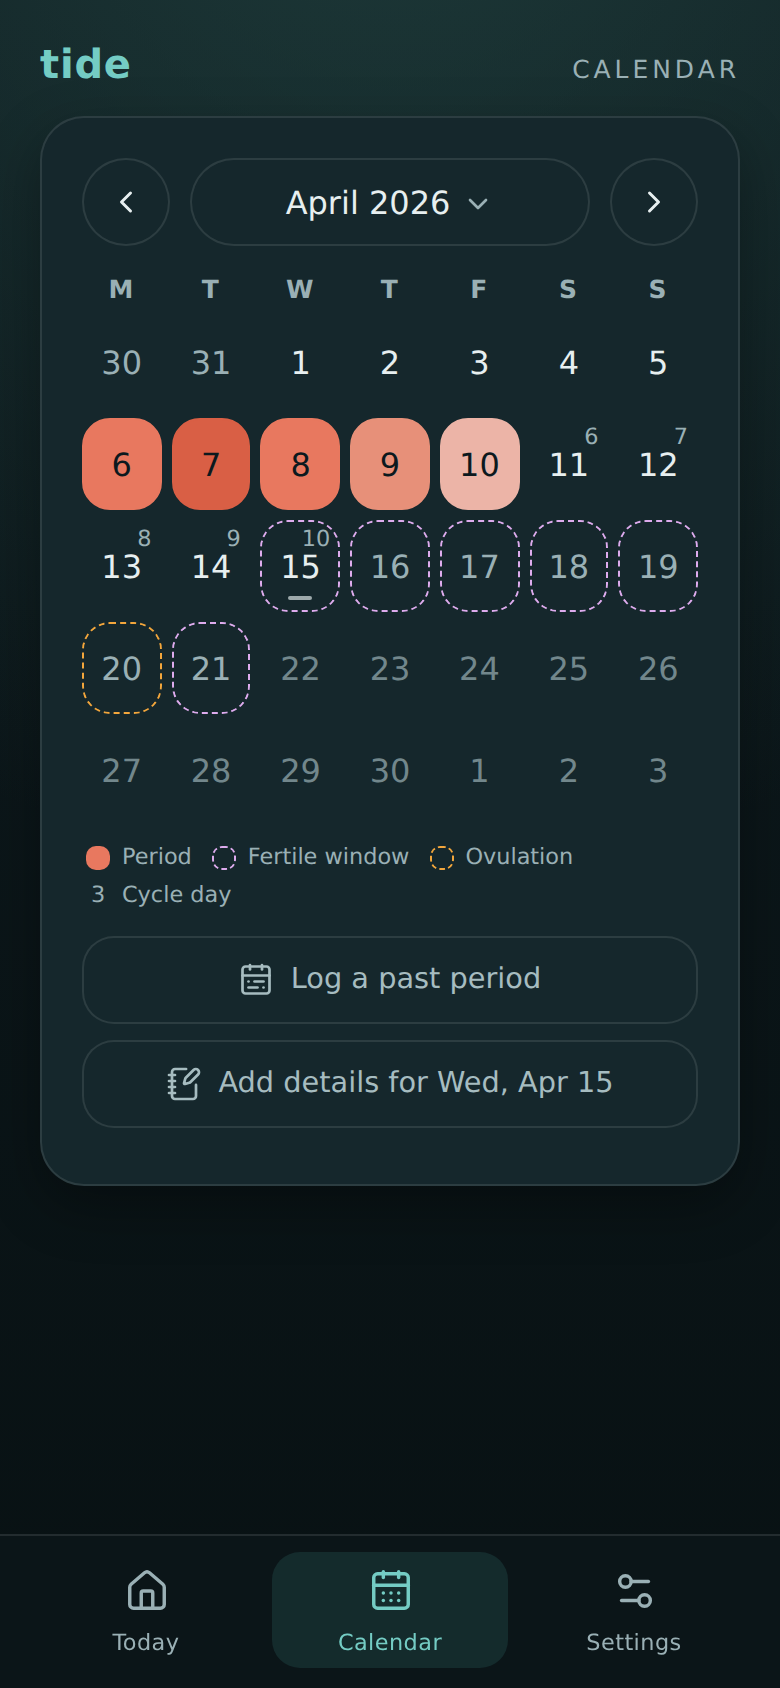
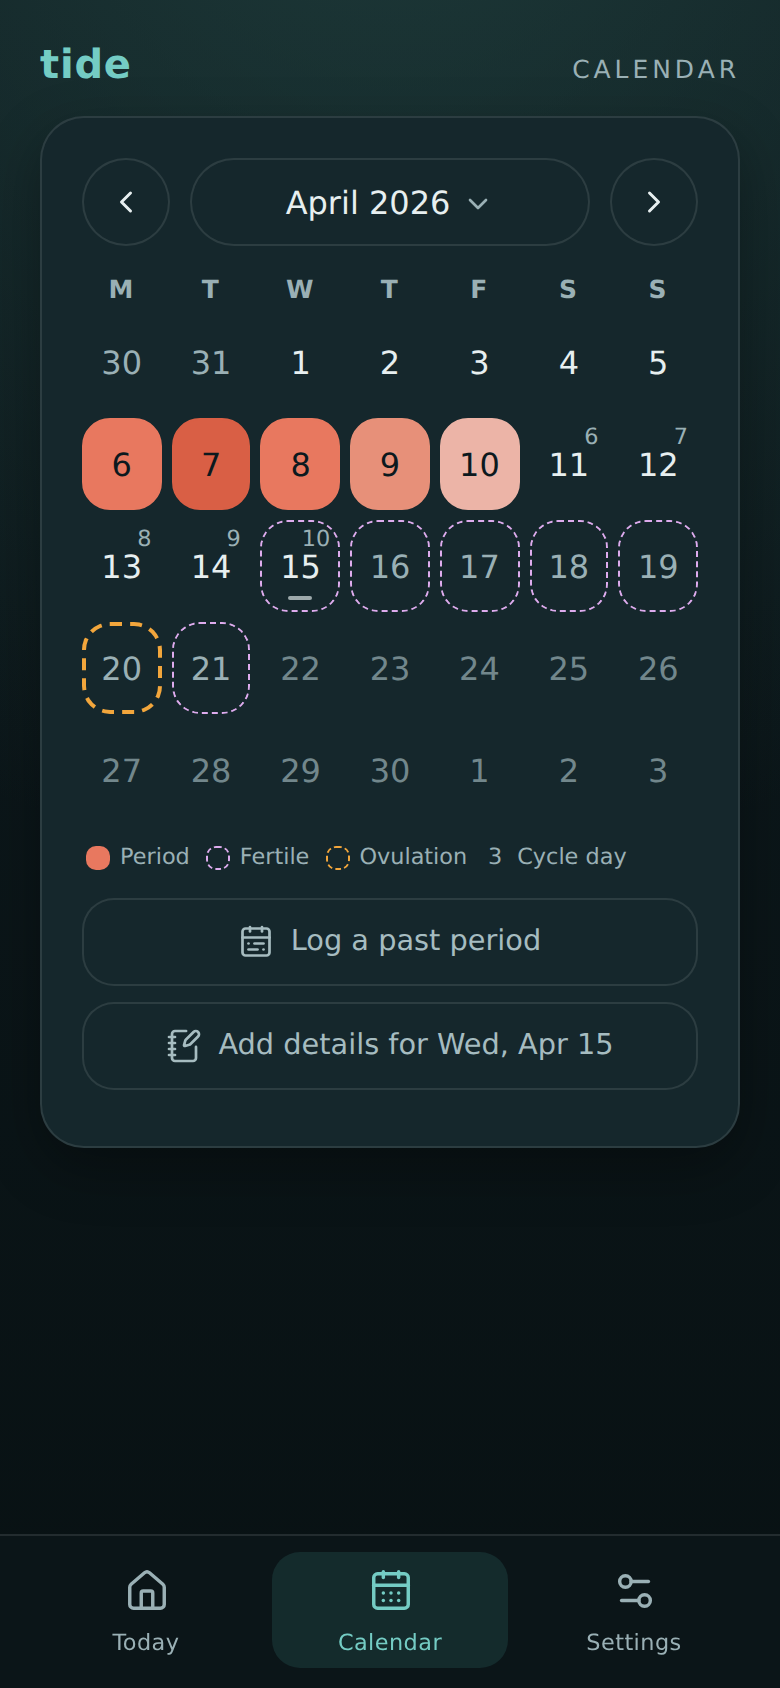
feat(calendar): gold ovulation and a one-line legend
- Ovulation is gold (#b07d00 light) with a 2.5 px dash and an amber
  wash on the calendar, so it no longer looks like the coral expected
  period; dark keeps its amber
- Legends say "Fertile" instead of "Fertile window" (legend.fertile),
  so the calendar legend fits one line at 390 px in all five languages;
  the calendar export keeps the full name
- Tighter legend gaps; README calendar screenshots recaptured

diff --git a/src/styles/tokens.css b/src/styles/tokens.css
@@ -45,13 +45,14 @@
     --cycle-idle: rgba(84, 123, 121, 0.4);
     /* Estimates are dashed outlines, never fills. Lilac and amber are too pale
        for a line on the light ground, so their outlines take deeper shades:
-       each clears 3.9:1 on the white card and 3.3:1 on the darkest ground. A
-       yellow that dark turns brown, so the fertile window is violet. */
+       each clears 3.6:1 on the white card and 3.1:1 on the darkest ground. A
+       yellow that dark turns brown, so the fertile window is violet; ovulation
+       is gold, apart from the coral period, with a thicker dash and a yellow wash. */
     --estimate-period: var(--bleed-strong);
     --estimate-fertile: #b454d4;
     /* How much of an estimate's colour washes its calendar day. */
     --estimate-tint: 10%;
-    --estimate-ovulation: #d45d00;
+    --estimate-ovulation: #b07d00;
     /* Text on the warm cycle fills — they stay light in both themes, so this
        stays near-black in both themes (not overridden in the dark block) to
        clear AA on coral, sand, and amber. */

diff --git a/src/styles/screens.css b/src/styles/screens.css
@@ -411,14 +411,14 @@
   .calendar-legend {
     display: flex;
     flex-wrap: wrap;
-    gap: 6px 10px;
+    gap: 4px 8px;
     padding-inline: 2px;
   }
 
   .calendar-legend__item {
     display: inline-flex;
     align-items: center;
-    gap: 6px;
+    gap: 5px;
     color: var(--ink-muted);
     font-size: var(--text-xs);
   }
@@ -459,6 +459,7 @@
 
   .calendar-legend__swatch--ovulation {
     --estimate: var(--estimate-ovulation);
+    background: color-mix(in srgb, var(--cycle-ovulation) calc(var(--estimate-tint) * 2.2), transparent);
   }
 
   .calendar-grid__weekday-narrow {

diff --git a/src/features/calendar/CalendarScreen.tsx b/src/features/calendar/CalendarScreen.tsx
@@ -252,7 +252,7 @@ const LEGEND_ITEMS = [
   // The same words as the Today dial's legend: one name per marker.
   { key: "logged", labelKey: "legend.period" },
   { key: "predicted", labelKey: "legend.expected" },
-  { key: "fertile", labelKey: "legend.fertileWindow" },
+  { key: "fertile", labelKey: "legend.fertile" },
   { key: "ovulation", labelKey: "legend.ovulation" },
   { key: "cycle-day", labelKey: "legend.cycleDay" },
 ] as const satisfies readonly { key: string; labelKey: MessageKey }[];

diff --git a/src/features/today/CycleLegend.tsx b/src/features/today/CycleLegend.tsx
@@ -30,7 +30,7 @@ export function CycleLegend({ className, showPeriod, showExpected, showFertility
         <>
           <span className="cycle-view__legend-item">
             <span className="cycle-view__dot cycle-view__dot--fertile" aria-hidden="true" />
-            {t("legend.fertileWindow")}
+            {t("legend.fertile")}
           </span>
           <span className="cycle-view__legend-item">
             <span className="cycle-view__dot cycle-view__dot--ovulation" aria-hidden="true" />

diff --git a/src/styles/ui.css b/src/styles/ui.css
@@ -1213,8 +1213,12 @@
     opacity: 1;
   }
 
+  /* One peak day: a heavier dash and a wash of the amber fill, so it differs
+     from the period estimate in weight as well as hue. */
   .calendar-grid__day.is-ovulation {
     --estimate: var(--estimate-ovulation);
+    background: color-mix(in srgb, var(--cycle-ovulation) calc(var(--estimate-tint) * 2.2), transparent);
+    border-width: 2.5px;
   }
 
   .calendar-grid__day.is-predicted-period {

diff --git a/tests/ui/calendar-screen.test.tsx b/tests/ui/calendar-screen.test.tsx
@@ -566,7 +566,9 @@ describe("CalendarScreen", () => {
 
     const legend = container.querySelector(".calendar-legend");
     expect(legend).toHaveTextContent(/period/i);
-    expect(legend).toHaveTextContent(/fertile window/i);
+    expect(legend).toHaveTextContent(/fertile/i);
+    // The short name keeps the legend on one line.
+    expect(legend).not.toHaveTextContent(/window/i);
     expect(legend).not.toHaveTextContent(/logged/i);
   });
 

diff --git a/src/i18n/nl.ts b/src/i18n/nl.ts
@@ -156,6 +156,7 @@ export const nl: Dictionary = {
   "legend.period": "Menstruatie",
   "legend.expected": "Verwachte menstruatie",
   "legend.fertileWindow": "Vruchtbare periode",
+  "legend.fertile": "Vruchtbaar",
   "legend.ovulation": "Eisprong",
   "legend.cycleDay": "Cyclusdag",
 

diff --git a/src/i18n/fr.ts b/src/i18n/fr.ts
@@ -156,6 +156,7 @@ export const fr: Dictionary = {
   "legend.period": "Règles",
   "legend.expected": "Règles prévues",
   "legend.fertileWindow": "Fenêtre de fertilité",
+  "legend.fertile": "Fertile",
   "legend.ovulation": "Ovulation",
   "legend.cycleDay": "Jour du cycle",
 

diff --git a/src/i18n/es.ts b/src/i18n/es.ts
@@ -154,6 +154,7 @@ export const es: Dictionary = {
   "legend.period": "Período",
   "legend.expected": "Período previsto",
   "legend.fertileWindow": "Ventana fértil",
+  "legend.fertile": "Fértil",
   "legend.ovulation": "Ovulación",
   "legend.cycleDay": "Día del ciclo",
 

diff --git a/src/i18n/de.ts b/src/i18n/de.ts
@@ -156,6 +156,7 @@ export const de: Dictionary = {
   "legend.period": "Periode",
   "legend.expected": "Erwartete Periode",
   "legend.fertileWindow": "Fruchtbares Fenster",
+  "legend.fertile": "Fruchtbar",
   "legend.ovulation": "Eisprung",
   "legend.cycleDay": "Zyklustag",
 

diff --git a/src/i18n/en.ts b/src/i18n/en.ts
@@ -156,6 +156,7 @@ export const en = {
   "legend.period": "Period",
   "legend.expected": "Expected period",
   "legend.fertileWindow": "Fertile window",
+  "legend.fertile": "Fertile",
   "legend.ovulation": "Ovulation",
   "legend.cycleDay": "Cycle day",
 

diff --git a/DESIGN.md b/DESIGN.md
@@ -13,7 +13,7 @@ colors:
   flow-light: "#e89a88"
   amber: "#e8a24b"
   lilac: "#ecd2f5"
-  amber-line: "#d45d00"
+  amber-line: "#b07d00"
   violet-line: "#b454d4"
   sea-idle: "rgba(84, 123, 121, 0.4)"
   ink: "#14303a"
@@ -176,7 +176,8 @@ first. Dark mode is the same pool at night, tuned again rather than inverted.
 - **Lilac** (`lilac`): the fertile window.
 - **Amber Line** / **Violet Line** (`amber-line`, `violet-line`): the same two estimates as
   outlines in the light theme, where amber and lilac are too pale for a line. A yellow dark
-  enough for a 3:1 line turns brown, which is why the fertile window is violet. Dark uses
+  enough for a 3:1 line turns brown, which is why the fertile window is violet. Amber Line
+  is a gold rather than an orange, so ovulation stays apart from the coral period. Dark uses
   amber and a brighter lilac themselves.
 - **Sea Idle** (`sea-idle`): the ordinary days on the dial ring.
 
@@ -205,7 +206,9 @@ day also takes a 10% wash of its colour (`--estimate-tint`), so a window reads a
 dark mode has none, because amber over the dark ground turns brown. The outline is the whole encoding:
 an estimated day's number keeps its ordinary colour, so the expected period looks no more
 certain than the fertile window. Each outline passes 3:1 against the card and the page
-ground.
+ground. Ovulation, the one peak day, takes a heavier dash on the calendar (2.5 px; legend swatches
+keep 1.5 px, which a heavier dash breaks into a C) and a wash of amber, so it differs from the period estimate by weight as
+well as hue.
 
 **The Paired Themes Rule.** Dark is not light inverted. Tune every fill and ink step again
 for the dark ground, so `ink-on-fill` still passes AA on it. The values above are the
@@ -257,7 +260,8 @@ The shell is a size container, so layout changes follow the shell, not the viewp
 calendar tightens its gaps below 400 px, where the weekday headers also drop to one
 letter (screen readers get the full name), and trims the card's side padding below 350 px.
 Its legend is a caption under the grid: a left-aligned row that wraps, so the wrap at 320 px
-reads as the list going on. The dial is `min(17.5rem, 64vw, 100%)` and is a
+reads as the list going on. Legend labels are the short names ("Fertile", not "Fertile
+window"), so the row fits one line at 390 px in every language. The dial is `min(17.5rem, 64vw, 100%)` and is a
 container itself. So are the fact rows: below 22em each label sits above its value. A
 switch row keeps its switch beside the label's first line and lets the label wrap.
 
